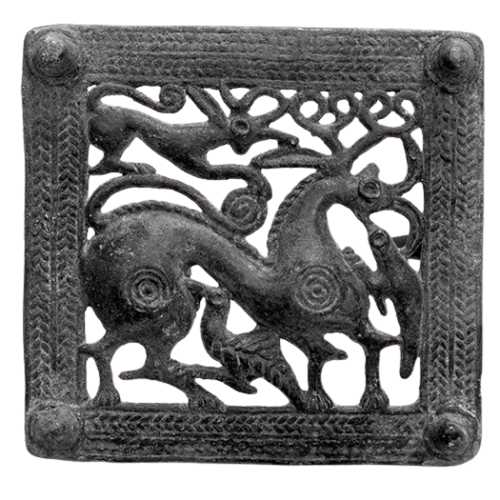
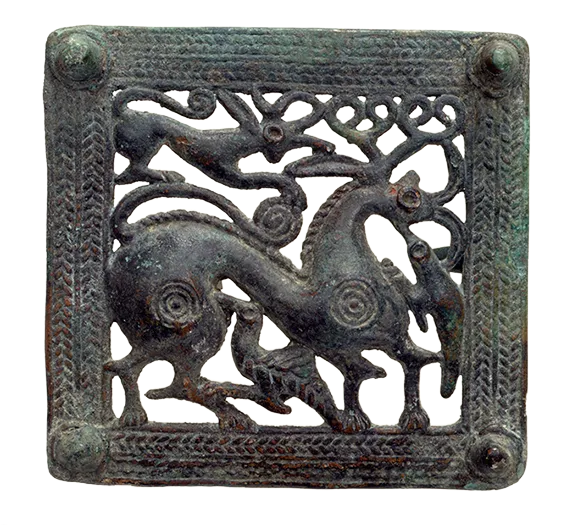
feat: visual changes, more color

diff --git a/styles.css b/styles.css
@@ -1310,7 +1310,7 @@ body {
   max-width: 420px;
   max-height: 420px;
   object-fit: contain;
-  filter: grayscale(100%) contrast(105%);
+  filter: contrast(105%);
 }
 
 .modal-map-display {
